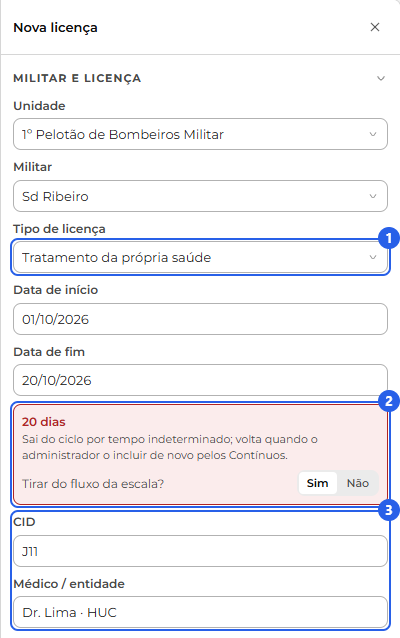
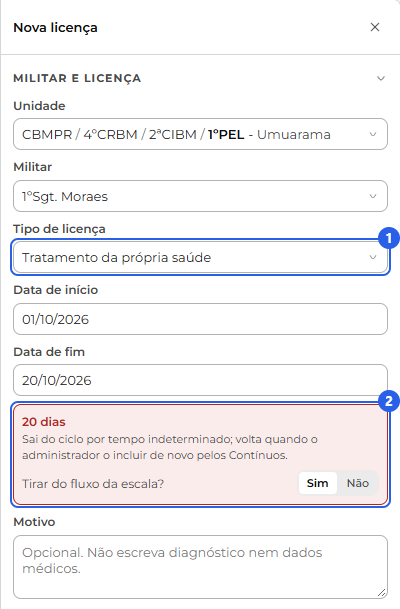
1

diff --git a/manual.html b/manual.html
@@ -1231,19 +1231,18 @@
                   </ol>
                 </figcaption>
               </figure>
-              <p class="manual-nota">A página é de consulta. Os dados de saúde de uma licença, como o CID e o médico, e o motivo ficam só com o administrador.</p>
+              <p class="manual-nota">A página é de consulta. O motivo de uma licença ou dispensa fica só com o administrador.</p>
               <div class="manual-admin manual-zona-admin">
                 <h3 id="registrar-afastamento">Registrar um afastamento <span class="manual-selo-admin">Apenas administradores</span></h3>
-                <p>O botão no topo (<strong>Novas férias</strong>, <strong>Nova licença</strong> ou <strong>Nova dispensa</strong>, conforme a aba) abre o painel. Em todos você escolhe a <strong>unidade</strong>, o <strong>militar</strong> e o <strong>período</strong>. As férias param por aí. A <strong>licença</strong> pede ainda o <strong>tipo</strong> (própria saúde, saúde de familiar, interesses particulares, especial ou capacitação) e, quando é da própria saúde, o <strong>CID</strong> e o <strong>médico</strong>. A <strong>dispensa</strong> pede o <strong>tipo</strong> (gala, nojo ou comum). Licença e dispensa aceitam também um <strong>motivo</strong>.</p>
+                <p>O botão no topo (<strong>Novas férias</strong>, <strong>Nova licença</strong> ou <strong>Nova dispensa</strong>, conforme a aba) abre o painel. Em todos você escolhe a <strong>unidade</strong>, o <strong>militar</strong> e o <strong>período</strong>. As férias param por aí. A <strong>licença</strong> pede ainda o <strong>tipo</strong> (própria saúde, saúde de familiar, interesses particulares, especial ou capacitação). A <strong>dispensa</strong> pede o <strong>tipo</strong> (gala, nojo ou comum). Licença e dispensa aceitam também um <strong>motivo</strong>.</p>
                 <p><strong>Dentro ou fora do fluxo da escala.</strong> Ao preencher o período de uma licença ou dispensa, aparece um indicador com os <strong>dias</strong> e uma sugestão: até 15 dias, "Segue no fluxo"; de 16 em diante, "Fora do fluxo". Quem decide é você, no botão <strong>Tirar do fluxo da escala?</strong>, com Sim ou Não.</p>
                 <p>Fora do fluxo, o militar sai do ciclo por tempo indeterminado, e você o traz de volta pelo <strong>Adicionar</strong> da aba Contínuos quando for o caso; seguindo no fluxo, ele continua no ciclo e só os dias do afastamento saem da escala. As férias afastam o militar da escala no período.</p>
                 <figure class="manual-figura">
-                  <img src="manual/imagens/afastamentos-nova-licenca.png" alt="O painel Nova licença: o Tipo de licença (1), o indicador com os dias e o botão Tirar do fluxo da escala Sim ou Não (2) e os campos de saúde CID e médico (3)." />
+                  <img src="manual/imagens/afastamentos-nova-licenca.png" alt="O painel Nova licença: o Tipo de licença (1) e o indicador com os dias e o botão Tirar do fluxo da escala Sim ou Não (2)." />
                   <figcaption>
                     <ol class="manual-chamadas">
                       <li>Tipo de licença</li>
                       <li>Dias e a escolha Tirar do fluxo da escala</li>
-                      <li>Campos de saúde: CID e médico</li>
                     </ol>
                   </figcaption>
                 </figure>

diff --git a/js/afastamentos-licencas.js b/js/afastamentos-licencas.js
@@ -1,7 +1,7 @@
 /* ============================================================
    LICENÇAS — painel "Nova licença" (modo criação, só admin)
-   Unidade (seletor em árvore) -> Militar, Tipo (5 tipos; saúde própria
-   mostra CID/médico), Período (máscara + calendário) e Motivo. Um
+   Unidade (seletor em árvore) -> Militar, Tipo (5 tipos), Período
+   (máscara + calendário) e Motivo (sem dado médico). Um
    indicador sugere fora/segue o fluxo pela regra dos 16 dias (o admin
    decide no toggle). Salva por RosterWork.afastamentosDados.inserirLicenca.
    ============================================================ */
@@ -98,10 +98,9 @@
     atualizarSalvar(raiz);
   }
 
-  /* Tipo: dropdown estático (5 tipos); saúde própria revela CID/médico */
+  /* Tipo: dropdown estático (5 tipos) */
   function ligarTipo(raiz) {
     var gatilho = raiz.querySelector('#lic-tipo');
-    var saude = raiz.querySelector('#lic-saude');
     var drop = gatilho ? gatilho.closest('.dropdown') : null;
     var itens = drop ? drop.querySelectorAll('.dropdown-item') : [];
     for (var i = 0; i < itens.length; i++) {
@@ -109,7 +108,6 @@
         var btn = ev.currentTarget;
         tipoEscolhido = btn.getAttribute('data-tipo');
         definirTexto(gatilho, btn.textContent.trim());
-        if (saude) saude.classList.toggle('oculto', tipoEscolhido !== 'propria_saude');
         sujo = true;
         atualizarSalvar(raiz);
       });
@@ -171,7 +169,6 @@
 
   function salvar(raiz, confirmarTrocas) {
     if (!militarEscolhido || !tipoEscolhido || calcularDias(raiz) == null) return;
-    var ehSaude = tipoEscolhido === 'propria_saude';
     var btnSalvar = raiz.querySelector('#lic-salvar'); if (btnSalvar) btnSalvar.disabled = true;
     if (RosterWork.mostrarVeuGlobal) RosterWork.mostrarVeuGlobal();
     var corpo = {
@@ -180,8 +177,6 @@
       p_data_fim: RosterWork.data.paraISO(raiz.querySelector('#lic-fim').value),
       p_tipo: tipoEscolhido,
       p_fora_do_fluxo: foraDoFluxo,
-      p_cid: ehSaude ? raiz.querySelector('#lic-cid').value.trim() : null,
-      p_medico: ehSaude ? raiz.querySelector('#lic-medico').value.trim() : null,
       p_motivo: raiz.querySelector('#lic-motivo').value.trim(),
       p_confirmar_trocas: !!confirmarTrocas
     };

diff --git a/afastamentos.html b/afastamentos.html
@@ -214,21 +214,9 @@
           </div>
         </div>
       </div>
-      <div class="afastamento-saude oculto" id="lic-saude">
-        <label class="campo">
-          <span class="campo-rotulo">CID</span>
-          <input class="campo-entrada" id="lic-cid" type="text" maxlength="10" placeholder="Ex.: J11" />
-          <span class="campo-erro-texto"></span>
-        </label>
-        <label class="campo">
-          <span class="campo-rotulo">Médico / entidade</span>
-          <input class="campo-entrada" id="lic-medico" type="text" maxlength="80" placeholder="Ex.: Dr. Lima · HUC" />
-          <span class="campo-erro-texto"></span>
-        </label>
-      </div>
       <label class="campo">
         <span class="campo-rotulo">Motivo</span>
-        <textarea class="campo-entrada" id="lic-motivo" maxlength="200" placeholder="Descreva o motivo (opcional)"></textarea>
+        <textarea class="campo-entrada" id="lic-motivo" maxlength="200" placeholder="Opcional. Não escreva diagnóstico nem dados médicos."></textarea>
         <span class="campo-erro-texto"></span>
       </label>
     </div>

diff --git a/css/afastamentos-atestados.css b/css/afastamentos-atestados.css
@@ -102,10 +102,3 @@
   font-size: 12px;
   color: var(--texto-suave);
 }
-
-/* bloco de saúde (CID + médico), revelado só na licença tipo "própria saúde" */
-.afastamento-saude {
-  display: flex;
-  flex-direction: column;
-  gap: 8px;
-}
